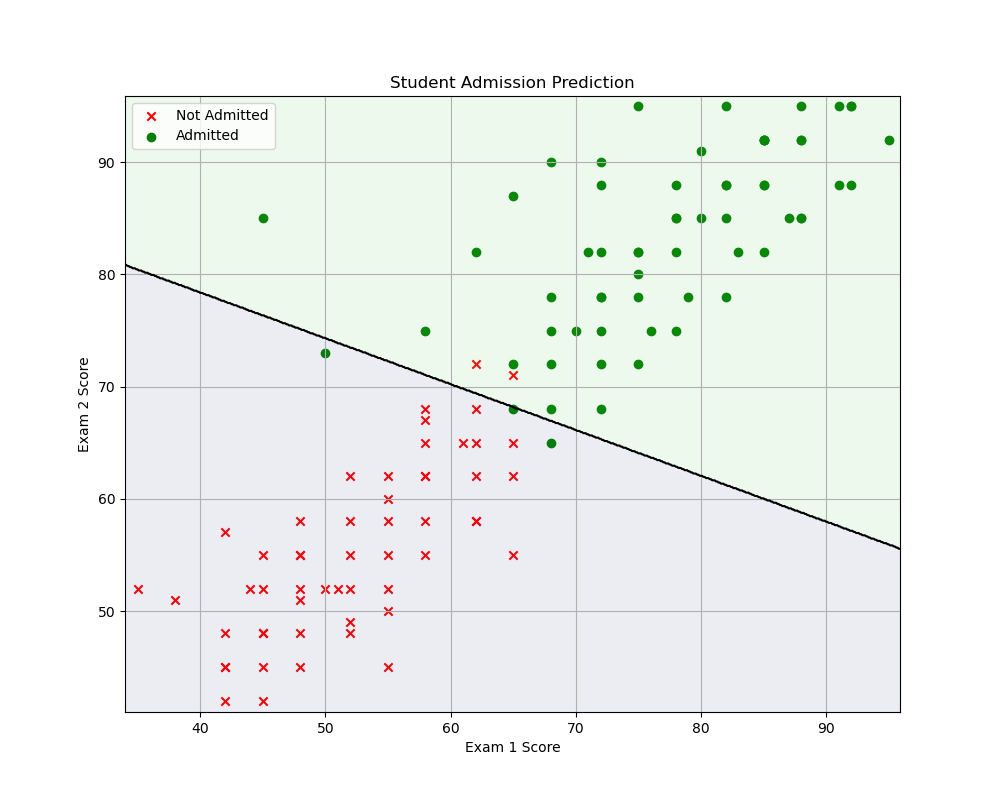
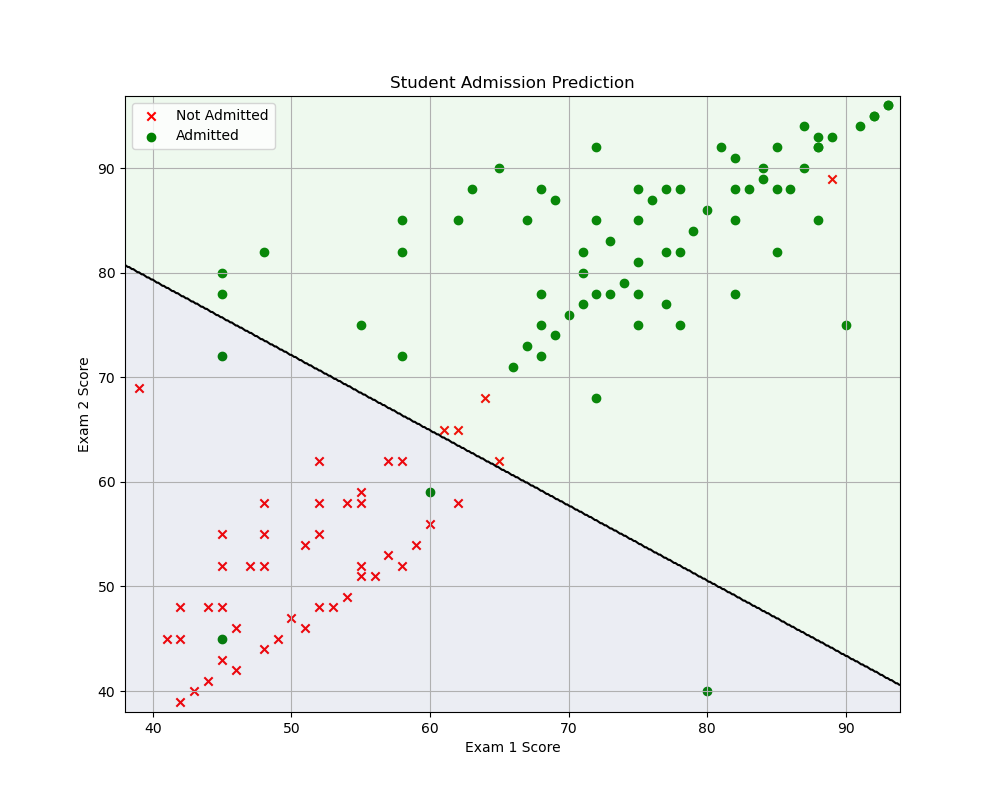
Added additional dataset for true-negative and false-negative cases. Also added confusion matrix plot.

diff --git a/logistic/admission_logistic_regression.py b/logistic/admission_logistic_regression.py
@@ -7,7 +7,7 @@ import matplotlib.pyplot as plt
 import seaborn as sns
 
 # Load the dataset
-df = pd.read_csv('student_admission.csv')
+df = pd.read_csv('student_admission2.csv')
 
 # Prepare features (X) and target (y)
 X = df[['exam1_score', 'exam2_score']].values
@@ -33,6 +33,35 @@ print("\nAccuracy Score:", accuracy_score(y_test, y_pred))
 print("\nClassification Report:")
 print(classification_report(y_test, y_pred))
 
+# Calculate and plot confusion matrix
+cm = confusion_matrix(y_test, y_pred)
+
+plt.figure(figsize=(8, 6))
+sns.heatmap(cm, annot=True, fmt='d', cmap='Blues')
+plt.title('Confusion Matrix')
+plt.ylabel('True Label')
+plt.xlabel('Predicted Label')
+plt.savefig('confusion_matrix.png')
+plt.show()
+
+# Add detailed confusion matrix analysis
+print("\nConfusion Matrix Analysis:")
+tn, fp, fn, tp = cm.ravel()
+print(f"True Negatives: {tn}")
+print(f"False Positives: {fp}")
+print(f"False Negatives: {fn}")
+print(f"True Positives: {tp}")
+
+# Calculate additional metrics
+precision = tp / (tp + fp)
+recall = tp / (tp + fn)
+f1 = 2 * (precision * recall) / (precision + recall)
+
+print("\nDetailed Metrics:")
+print(f"Precision: {precision:.2f}")
+print(f"Recall: {recall:.2f}")
+print(f"F1 Score: {f1:.2f}")
+
 # Create a visualization
 plt.figure(figsize=(10, 8))
 
@@ -49,7 +78,6 @@ xx, yy = np.meshgrid(np.arange(x_min, x_max, 0.1),
 # Make predictions on mesh grid points
 Z = model.predict(np.c_[xx.ravel(), yy.ravel()])
 Z = Z.reshape(xx.shape)
-
 
 
 # Example predictions

diff --git a/README.md b/README.md
@@ -57,3 +57,4 @@ Selvan Rajan
 
 All statisticians.
 
+
